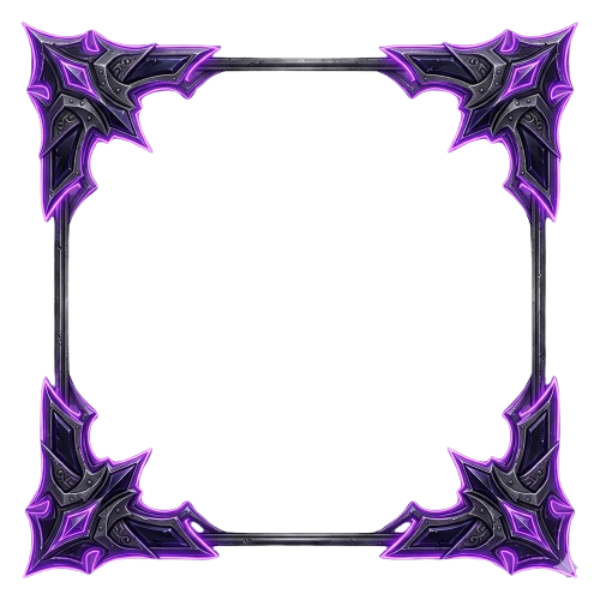
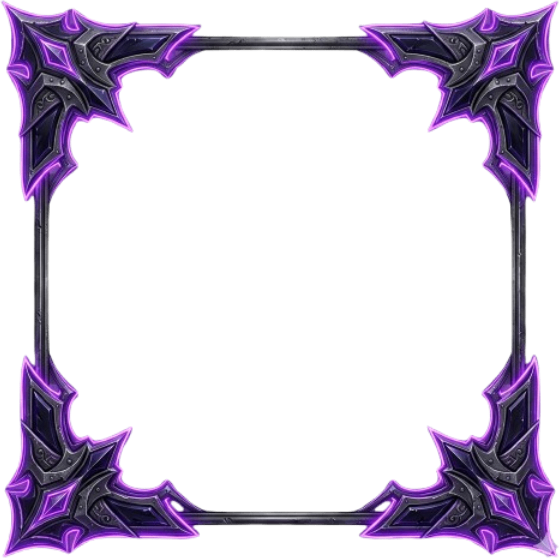
feat: add character art (lvl 1-20), de-watermarked; trim panel frame flush
- 20 character scene webp (lvl_001-020), Gemini corner watermark removed
  (cloned floor patch, feathered) and converted from PNG (~50MB -> 3.6MB).
- Trimmed the ~20px transparent margin off panel-frame.png so the ornate frame
  renders flush with the card edge (border-image slice 185 -> 165) -- fixes the
  few-pixels-inside gap where the gate/forge art peeked outside the frame.

diff --git a/src/styles/system-fx.css b/src/styles/system-fx.css
@@ -241,7 +241,7 @@ body::after {
   inset: 0;
   z-index: -1;
   border: 30px solid transparent;
-  border-image: url('/assets/fx/panel-frame.png') 185 stretch;
+  border-image: url('/assets/fx/panel-frame.png') 165 stretch;
   pointer-events: none;
 }
 
